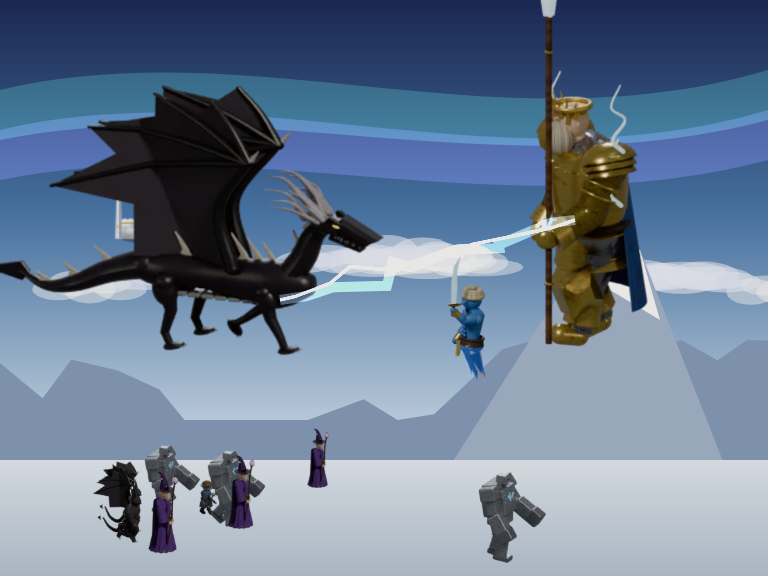
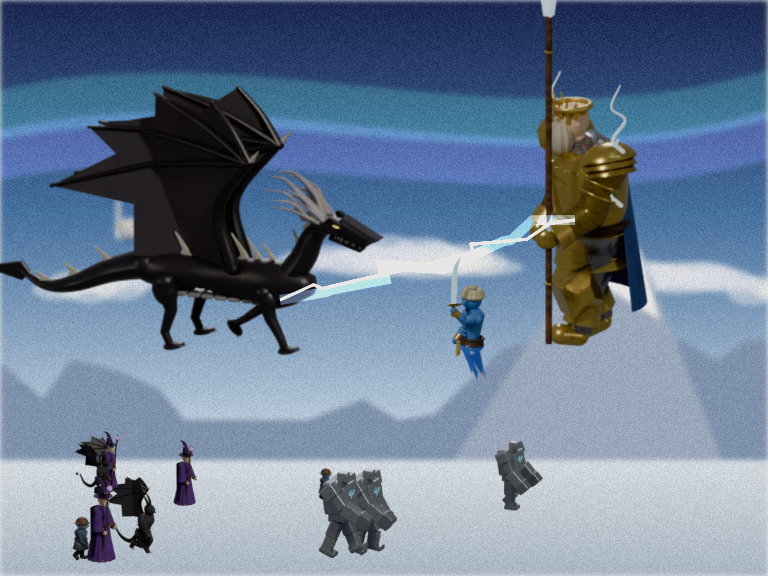
Mapa zagadki: lepsze szkice scen (faktura tła, prawdziwe drzewa, bez drobnych latających kleksów), negatyw przeciw posągom i zlanym ciałom
Claude-Session: https://claude.ai/code/session_01ACpgVGYFhc89V1nkQx4Yem

diff --git a/tools/tla-ai/zagadka/szkic.js b/tools/tla-ai/zagadka/szkic.js
@@ -20,11 +20,15 @@ const FACS = ['haven', 'sylvan', 'barrow', 'fortress', 'inferno', 'academy', 'du
       const poly = (pts, col) => { g.fillStyle = col; g.beginPath(); pts.forEach(([x, y], i) => (i ? g.lineTo(x, y) : g.moveTo(x, y))); g.closePath(); g.fill(); };
       const clouds = (n, y0, y1, col, a) => { for (let i = 0; i < n; i++) { const x = r() * W, y = y0 + r() * (y1 - y0), L = 50 + r() * 90; for (let k = 0; k < 5; k++) blob(x + k * L / 5, y - (k % 2) * 6, L / 3, 9 + r() * 6, col, a); } };
       const pine = (x, y, h, col) => poly([[x, y - h], [x + h * 0.3, y], [x - h * 0.3, y]], col);
-      const oak = (x, y, h, col) => { g.fillStyle = shadeHex(col, -0.3); g.fillRect(x - h * 0.05, y - h * 0.5, h * 0.1, h * 0.5); for (let k = 0; k < 6; k++) blob(x + (r() - 0.5) * h * 0.6, y - h * 0.55 - r() * h * 0.4, h * 0.25, h * 0.2, k % 2 ? col : shadeHex(col, 0.15)); };
+      const oak = (x, y, h, col) => { poly([[x - h * 0.07, y], [x + h * 0.07, y], [x + h * 0.025, y - h * 0.6], [x - h * 0.025, y - h * 0.6]], '#3a2a1a');
+        for (const s of [-1, 1]) { g.strokeStyle = '#3a2a1a'; g.lineWidth = h * 0.02; g.beginPath(); g.moveTo(x, y - h * 0.45); g.lineTo(x + s * h * 0.2, y - h * 0.7); g.stroke(); }
+        for (let k = 0; k < 26; k++) { const a = r() * TAU, d = Math.sqrt(r()) * h * 0.3; blob(x + Math.cos(a) * d * 1.2, y - h * 0.72 + Math.sin(a) * d * 0.8, h * (0.06 + r() * 0.07), h * (0.05 + r() * 0.05), shadeHex(col, (r() - 0.4) * 0.5)); } };
       const rays = (x, y, col, n, a) => { g.save(); g.globalCompositeOperation = 'lighter'; for (let i = 0; i < n; i++) { const ang = 0.35 + i / n * 1.1; g.globalAlpha = a * (0.5 + r() * 0.5); poly([[x, y], [x + Math.cos(ang - 0.04) * 900, y + Math.sin(ang - 0.04) * 900], [x + Math.cos(ang + 0.04) * 900, y + Math.sin(ang + 0.04) * 900]], col); } g.restore(); };
       const glow = (x, y, rad, col, a = 0.6) => { g.save(); g.globalCompositeOperation = 'lighter'; const gr = g.createRadialGradient(x, y, 0, x, y, rad); gr.addColorStop(0, col); gr.addColorStop(1, 'rgba(0,0,0,0)'); g.globalAlpha = a; g.fillStyle = gr; g.fillRect(x - rad, y - rad, rad * 2, rad * 2); g.restore(); };
       const fog = (y, h, col, a) => { const gr = g.createLinearGradient(0, y - h, 0, y + h); gr.addColorStop(0, 'rgba(0,0,0,0)'); gr.addColorStop(0.5, col); gr.addColorStop(1, 'rgba(0,0,0,0)'); g.globalAlpha = a; g.fillStyle = gr; g.fillRect(0, y - h, W, h * 2); g.globalAlpha = 1; };
-      const put = (cid, x, y, k, dir = 1, pose = 'attack', fr = 4) => { try { drawSprite(g, battleSprite(cid, dir, pose, fr), x, y, k); } catch (e) { /* brak arkusza */ } };
+      let textured = false; const texture = () => { if (textured) return; textured = true; const c2 = document.createElement('canvas'); c2.width = W; c2.height = H; const t = c2.getContext('2d'); t.filter = 'blur(2.5px)'; t.drawImage(o, 0, 0); g.clearRect(0, 0, W, H); g.drawImage(c2, 0, 0);
+        const im = g.getImageData(0, 0, W, H), d = im.data; for (let i = 0; i < d.length; i += 4) { const n = (r() - 0.5) * 26; d[i] += n; d[i + 1] += n; d[i + 2] += n; } g.putImageData(im, 0, 0); };
+      const put = (cid, x, y, k, dir = 1, pose = 'attack', fr = 4) => { texture(); try { drawSprite(g, battleSprite(cid, dir, pose, fr), x, y, k); } catch (e) { /* brak arkusza */ } };
       const town = (f, x, y, k) => { const ts = townSprite(f, 3); g.imageSmoothingEnabled = true; const w = ts.c.width * ts.u / 2 * k, h = ts.c.height * ts.u / 2 * k; g.drawImage(ts.c, x - w / 2, y - h, w, h); };
       const crowd = (ids, n, x0, x1, y0, y1, k0, k1, dir, pose = 'walk') => { const L = []; for (let i = 0; i < n; i++) { const t = r(); L.push([ids[i % ids.length], x0 + r() * (x1 - x0), y0 + t * (y1 - y0), k0 + t * (k1 - k0)]); } L.sort((a, b) => a[2] - b[2]).forEach(([c, x, y, k], i) => put(c, x, y, k, dir, pose, i % 8)); };
       const bolt = (x0, y0, x1, y1) => { g.save(); g.globalCompositeOperation = 'lighter'; for (const [w, c] of [[10, 'rgba(160,200,255,.5)'], [3, '#ffffff']]) { g.strokeStyle = c; g.lineWidth = w; g.beginPath(); g.moveTo(x0, y0); for (let i = 1; i < 10; i++) { const f = i / 10; g.lineTo(x0 + (x1 - x0) * f + (r() - 0.5) * 40, y0 + (y1 - y0) * f + (r() - 0.5) * 20); } g.lineTo(x1, y1); g.stroke(); } g.restore(); };
@@ -35,15 +39,15 @@ const FACS = ['haven', 'sylvan', 'barrow', 'fortress', 'inferno', 'academy', 'du
           ridge(hor, 60, '#7a98b8', 40, 1); ridge(hor + 30, 40, '#5a8a4a', 30, 2); ground(hor + 30, ['#6aa04a', '#3a6a2a']);
           blob(170, 330, 210, 70, '#5a904a'); town('haven', 170, 320, 3.6);
           put('griffin', 520, 150, 0.9, -1, 'walk', 2); put('royalGriffin', 640, 110, 0.7, -1, 'walk', 5);
-          crowd(['pikeman', 'crusader', 'marksman'], 14, 260, 720, 380, 430, 0.7, 0.9, 1); crowd(['champion', 'cavalier'], 6, 250, 700, 440, 540, 1.2, 1.9, 1, 'walk');
-          put('dawnbringer', 560, 330, 2.8, -1, 'attack', 5); put('champion', 200, 560, 2.4, 1, 'walk', 3); },
+          crowd(['pikeman', 'crusader', 'marksman'], 14, 260, 720, 380, 430, 0.7, 0.9, 1); crowd(['champion', 'cavalier'], 4, 300, 720, 440, 530, 1.2, 1.7, 1, 'walk');
+          put('dawnbringer', 570, 250, 2.3, -1, 'attack', 5); put('champion', 190, 560, 2.2, 1, 'walk', 3); },
         sylvan() { // poranna polana: jezioro w lesie, jednorogi u wody, smok nad koronami, miasto-drzewo we mgle
           const hor = 330; sky(['#7ab0a0', '#c8e8c0', '#f8f0c8'], hor); disc(560, 120, 26, '#fff8d8', 0.2);
           town('sylvan', 400, hor + 10, 2.2); fog(hor, 40, '#e8f4e0', 0.7); ground(hor, ['#5a8a3a', '#2a5a22']);
           blob(400, 440, 250, 55, '#7ab8c8'); blob(400, 432, 220, 30, '#a8d8e0', 0.6);
-          for (let i = 0; i < 9; i++) { oak(20 + i * 20, 560 - (i % 3) * 30, 230 + r() * 80, '#2a5a2a'); oak(W - 20 - i * 20, 560 - (i % 3) * 30, 230 + r() * 80, '#2a5a2a'); }
+          for (const [x, y, h] of [[60, 560, 420], [170, 520, 300], [250, 470, 200], [W - 60, 570, 440], [W - 170, 520, 300], [W - 250, 470, 210]]) oak(x, y, h, '#2e6a2a');
           put('jadeDragon', 300, 250, 1.7, 1, 'walk', 3); put('sunPhoenix', 600, 230, 1.1, -1, 'walk', 6);
-          put('silverUnicorn', 330, 470, 1.6, 1, 'idle', 1); put('unicorn', 480, 490, 1.5, -1, 'idle', 3); put('starUnicorn', 400, 520, 1.4, 1, 'idle', 5);
+          put('silverUnicorn', 340, 470, 1.6, 1, 'idle', 1); put('silverUnicorn', 470, 490, 1.5, -1, 'idle', 3);
           crowd(['nymph', 'elfSharp', 'dryad'], 8, 230, 560, 380, 410, 0.6, 0.75, 1, 'idle'); put('treantKing', 150, 540, 2.2, 1, 'idle', 2); },
         barrow() { // cmentarz w pełni księżyca: kościany smok na tle tarczy, licz na krypcie, szkielety wstają z grobów
           const hor = 360; sky(['#0e0a1e', '#2a2448', '#4a3e5a'], hor); disc(384, 170, 80, '#e8ecf4', 0.18); clouds(4, 80, 260, '#8a88a8', 0.25);
@@ -52,7 +56,7 @@ const FACS = ['haven', 'sylvan', 'barrow', 'fortress', 'inferno', 'academy', 'du
           for (let i = 0; i < 16; i++) { const x = r() * W, y = hor + 30 + r() * 180, s = 0.6 + (y - hor) / 180; g.fillStyle = '#5a5866'; g.fillRect(x - 7 * s, y - 20 * s, 14 * s, 20 * s); blob(x, y - 20 * s, 7 * s, 7 * s, '#5a5866'); }
           fog(H - 60, 60, '#5aff9a', 0.18); glow(384, 380, 120, '#60ff90', 0.35);
           crowd(['boneWarrior', 'boneGuard', 'boneLegionary', 'ghoul'], 16, 40, 730, 420, 540, 0.8, 1.4, 1, 'walk');
-          put('lich', 384, 400, 1.8, 1, 'attack', 4); put('dreadLord', 120, 560, 2.1, 1, 'walk', 2); put('banshee', 620, 330, 1.2, -1, 'walk', 3); put('wraith', 160, 300, 1.0, 1, 'walk', 5); },
+          put('lich', 384, 400, 1.8, 1, 'attack', 4); put('dreadLord', 120, 560, 2.1, 1, 'walk', 2); },
         fortress() { // hydra wynurza się z bagna o zmierzchu, jaszczuroludzie w łodziach z pochodniami, ważki, namorzyny
           const hor = 280; sky(['#2a3a4a', '#c87a5a', '#f0b070'], hor); disc(200, 240, 40, '#ffd8a0', 0.2);
           ridge(hor, 30, '#3a4a3a', 40, 4); town('fortress', 140, hor + 18, 1.6); g.fillStyle = lin(hor, H, ['#4a5a3a', '#1e2a1a']); g.fillRect(0, hor, W, H - hor);
